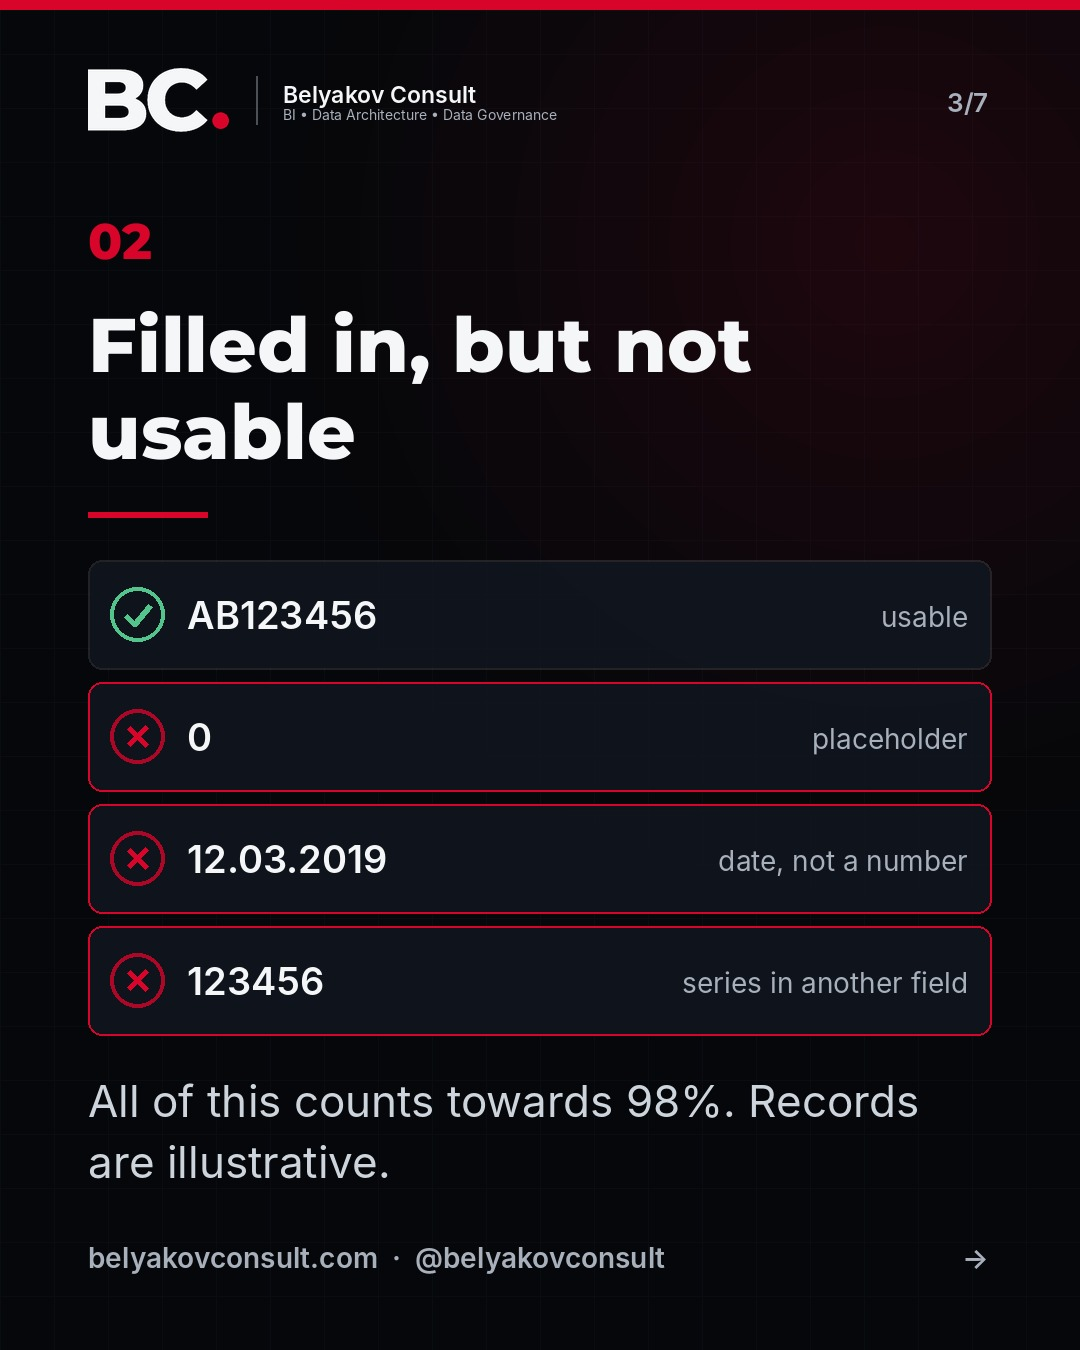
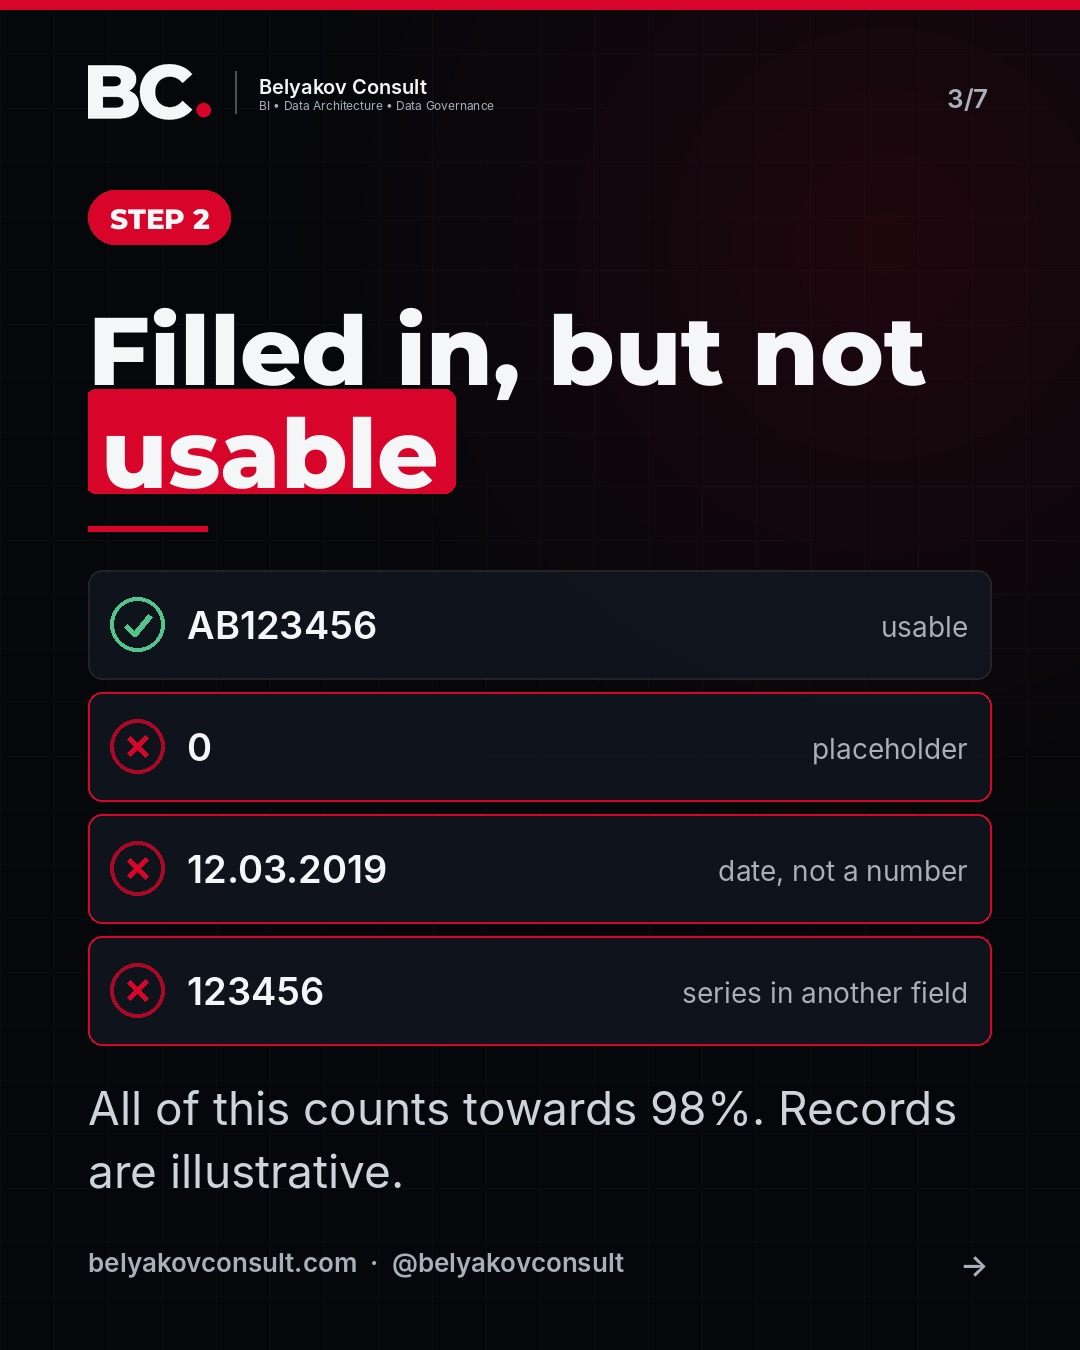
Карусель «98% заповненості» в новому шаблоні, публікація в Instagram поза розкладом
Claude-Session: https://claude.ai/code/session_01XddDwhTNoT2czSYjBDQAJV

diff --git a/content/articles/completeness-is-not-quality/posts/instagram-uk-carousel.md b/content/articles/completeness-is-not-quality/posts/instagram-uk-carousel.md
@@ -1,0 +1,19 @@
+---
+channel: instagram
+lang: uk
+n: 9                            # окремий ключ, щоб не збігатися з дописами 1–3
+publish_at: 2026-11-02 12:00    # карусель поза розкладом на прохання «зараз»; час дає сайту викласти нові слайди
+link: false
+media: carousel
+---
+98% заповненості не означає 98% якості.
+
+Повнота відповідає лише на одне питання: чи є в полі хоч щось. «0», «-», дата замість номера теж рахуються як заповнене.
+
+У каруселі п'ять кроків: що повнота не бачить, з чого почати і як показати керівнику дві колонки замість одного відсотка.
+
+Збережіть, щоб мати під рукою перед наступним звітом про якість.
+
+А скільки відсотків у вас «заповнено, але непридатне»?
+
+#якістьданих #DataQuality #реєстри #аналітика
